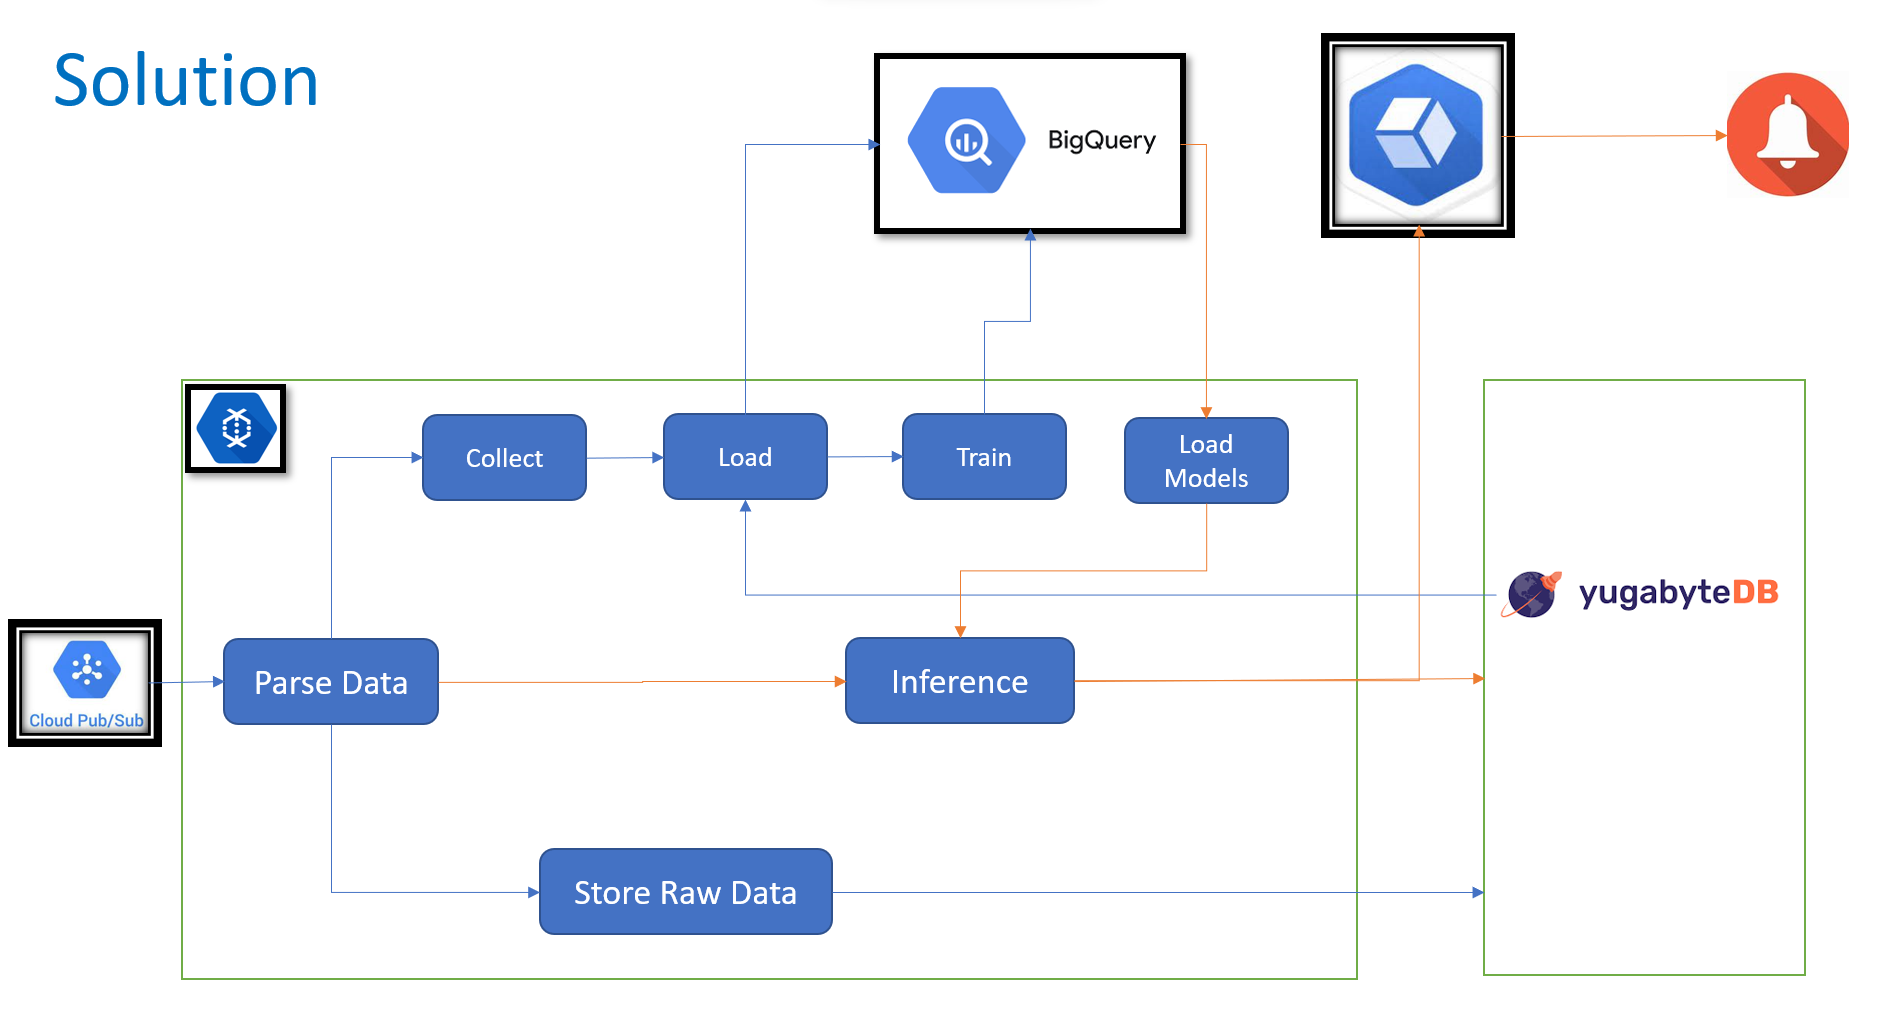
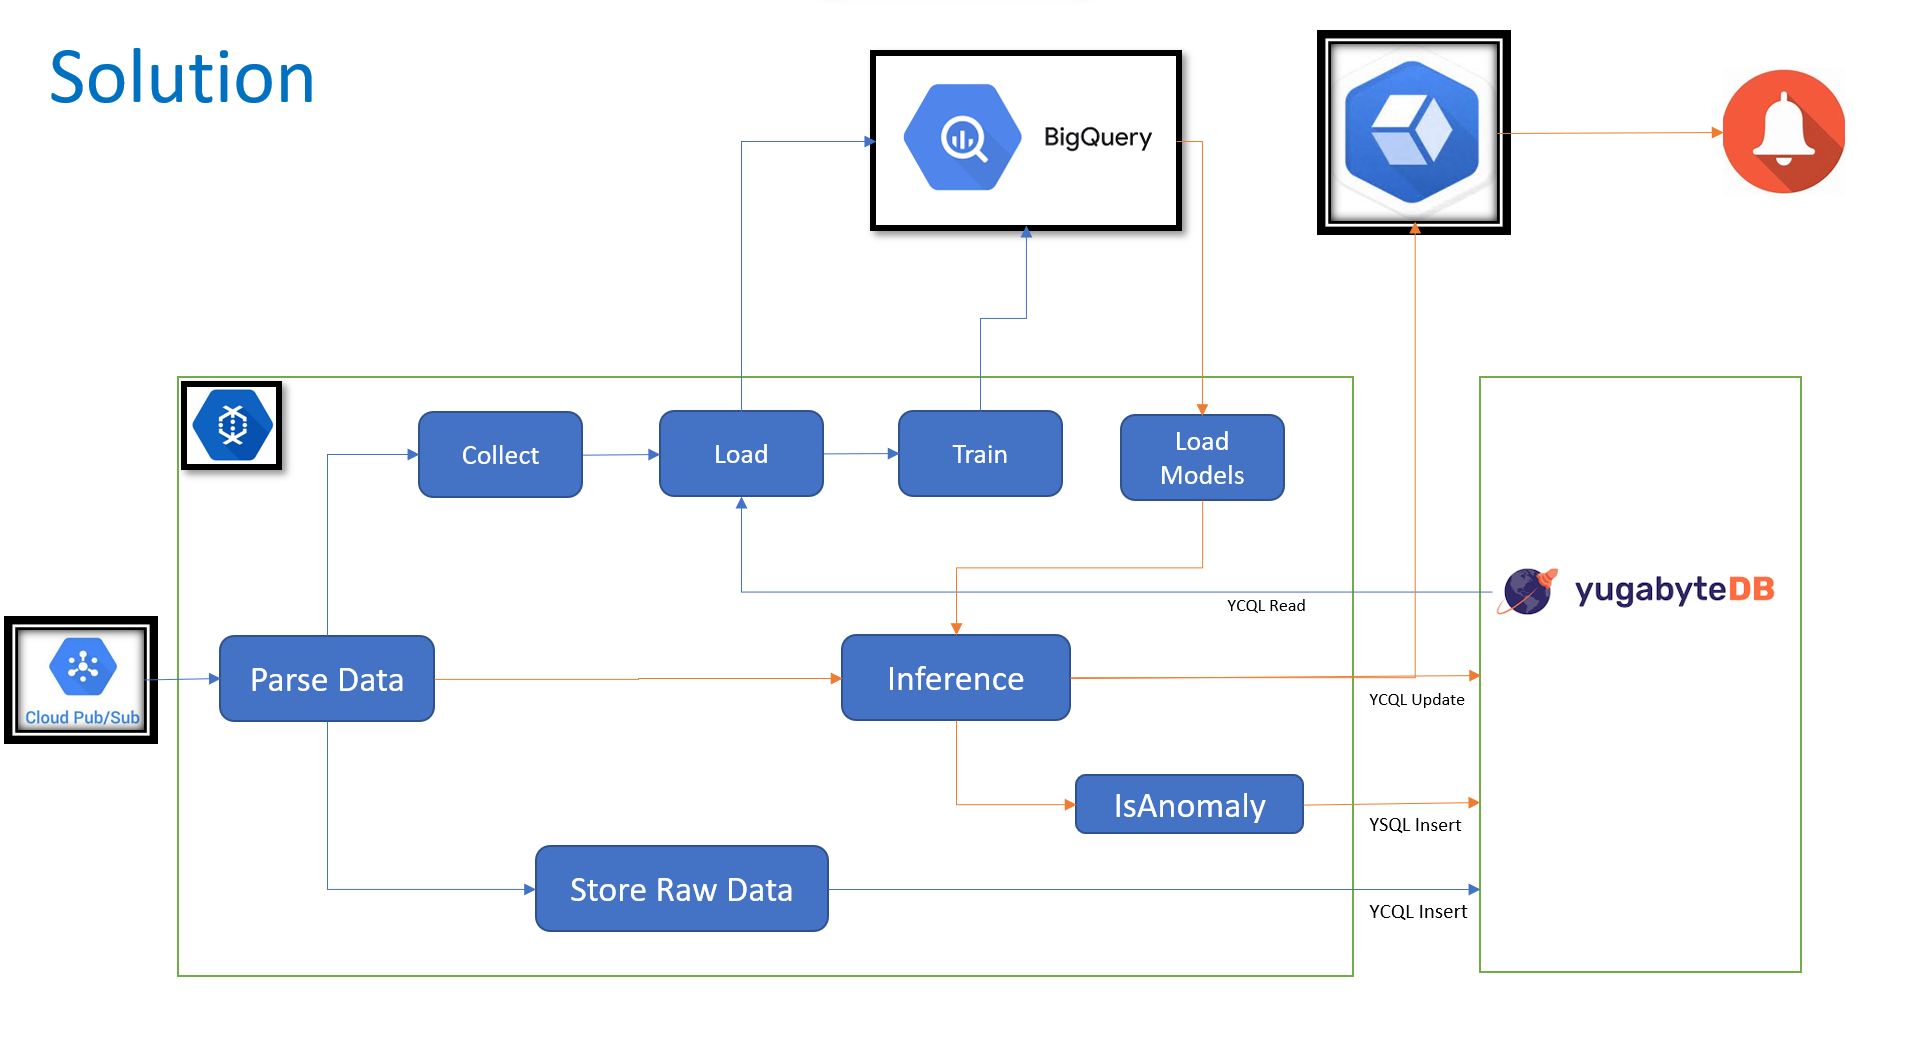
Initial Commit

diff --git a/packages/writetoysql.py b/packages/writetoysql.py
@@ -63,13 +63,21 @@ class WriteToYSQL(DoFn):
         self.connection.commit()
 
     # Device is primary key, whose status is updated/created in this function. Hence 'INSERT...ON CONFLICT' is used.
-    def process(self, element):
-        insert_stmt = f"""INSERT INTO {self.table} (id,eventtime,value base) 
+    def process(self, elements):
+        import json
+        from math import trunc
+        insert_stmt = f"""INSERT INTO {self.table} (id,eventtime,value,base) 
                 values (%s,to_timestamp(%s/1000.),%s,%s)"""
+        _, rows = elements
+        logging.info("Recieved anomaly data: " + str(rows))
         try:
-            record = (element[0], element[1], element[2], element[3])
-            self.cursor.execute(insert_stmt, record)
+            for element in rows:
+                logging.info("Processing element: " + str(element))
+                data, distance = element
+                k, v = data
+                json_element = json.loads(v)
+                self.cursor.execute(insert_stmt, (k, json_element['eventtime'], json_element['value'], json_element['base']))
         except Exception as e:
             logging.info(
-                "YSQL: Insertion failed for record: {record} with error: {e}")
+                "YSQL: Insertion failed for record: {} with error: {}".format(elements,e))
             raise e

diff --git a/process.py b/process.py
@@ -66,18 +66,19 @@ def run(input_sub, model_load_timer, pipeline_args=None):
     is_anomaly = norm_distances | "Filter Anomalies" >> beam.Filter(lambda x: x[1] > 3.0)
     is_anomaly | "Log Anomalies" >> ParDo(LogEventsWithTimestampAndWindow("Anomaly Detected: "))
 
-    # TODO
-    #(is_anomaly
-    #    | "Save Alerts to YSQL" >> ParDo(WriteToYSQL(
-    #            table="alerts",
-    #            database="yugabyte",
-    #            project_id=project_id,
-    #            port=5433,
-    #            user_secret_name="cql_user",
-    #            password_secret_name="cql_password",
-    #            host_secret_name="cql_host",
-    #            ca_cert_secret_name="cql_ca_cert"
-    #        )))   
+    (is_anomaly
+        | "Batch Together For Saving Anomaly Alert" >> beam.GroupBy(lambda x: 1)
+        | "Filter empty" >> beam.Filter(lambda x: len(x) > 0)
+        | "Save Alerts to YSQL" >> ParDo(WriteToYSQL(
+                table="alerts",
+                database="yugabyte",
+                project_id=project_id,
+                port=5433,
+                user_secret_name="cql_user",
+                password_secret_name="cql_password",
+                host_secret_name="cql_host",
+                ca_cert_secret_name="cql_ca_cert"
+            )))   
 
     stream_pipeline.run()
 

diff --git a/packages/statefulcounter.py b/packages/statefulcounter.py
@@ -25,7 +25,7 @@ class StatefulCounterDoFn(DoFn):
             if current_value + 1 >= self.limit_count:
                 logging.info("Resetting counter for {}".format(element_pair))
                 counter_state.write(-1)            
-                new_time = Timestamp(seconds=Timestamp.now().seconds() + 300)
+                new_time = Timestamp(seconds=Timestamp.now().seconds() + 600)
                 timer.set(new_time)
                 yield element_pair
             else:
